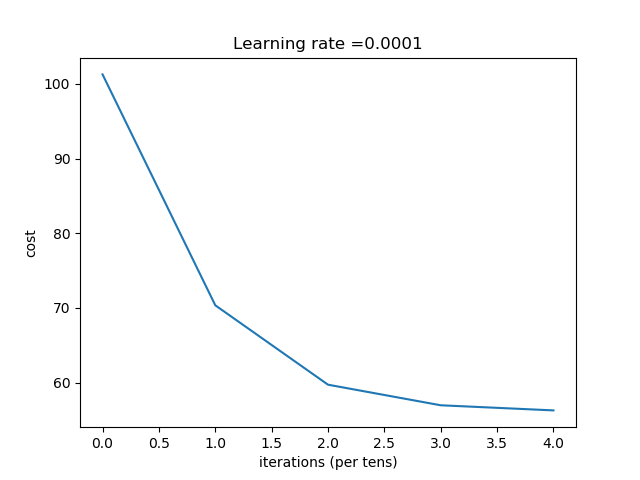
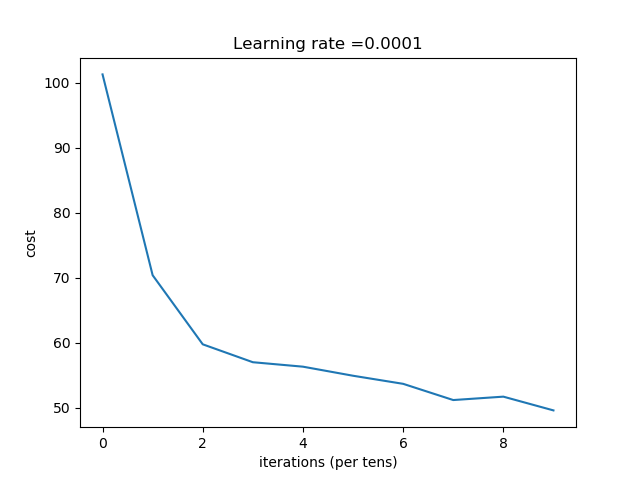
updated model to write out images

diff --git a/milestone2/specify_imgnet_model.py b/milestone2/specify_imgnet_model.py
@@ -6,6 +6,7 @@ import logging
 import matplotlib.pyplot as plt
 import numpy as np
 import rawpy
+import imageio
 import tensorflow as tf
 from tensorflow.python.framework import ops
 import tensorflow.contrib.slim as slim
@@ -426,8 +427,11 @@ def cifar_model(X_train, Y_train, X_test, Y_test, learning_rate=1e-4,
             if print_cost == True and epoch % 1 == 0:
                 costs.append(minibatch_cost)
 
-            # Write out image
-            output = np.minimum(np.maximum(output, 0), 1)
+    # Write out image
+    output = np.minimum(np.maximum(output, 0), 1)
+    logger.info("output shape: {}".format(output.shape))
+    imageio.imwrite("sony_network.jpg", output[0,...])
+    parameters = {}
 
     return (parameters, costs, learning_rate)
 

diff --git a/milestone2/train_imgnet.py b/milestone2/train_imgnet.py
@@ -51,7 +51,7 @@ X_test = X_test[0:25,...]
 
 logger.info("STARTED CIFAR model")
 parameters, costs, lr = cifar_model(X_train, X_train, X_test, X_test, 1e-4,
-                                    num_epochs=5)
+                                    num_epochs=10, minibatch_size=1)
 logging.info("FINISHED CIFAR model")
 
 plot_costs(costs, lr, "costs_epochs.png")
